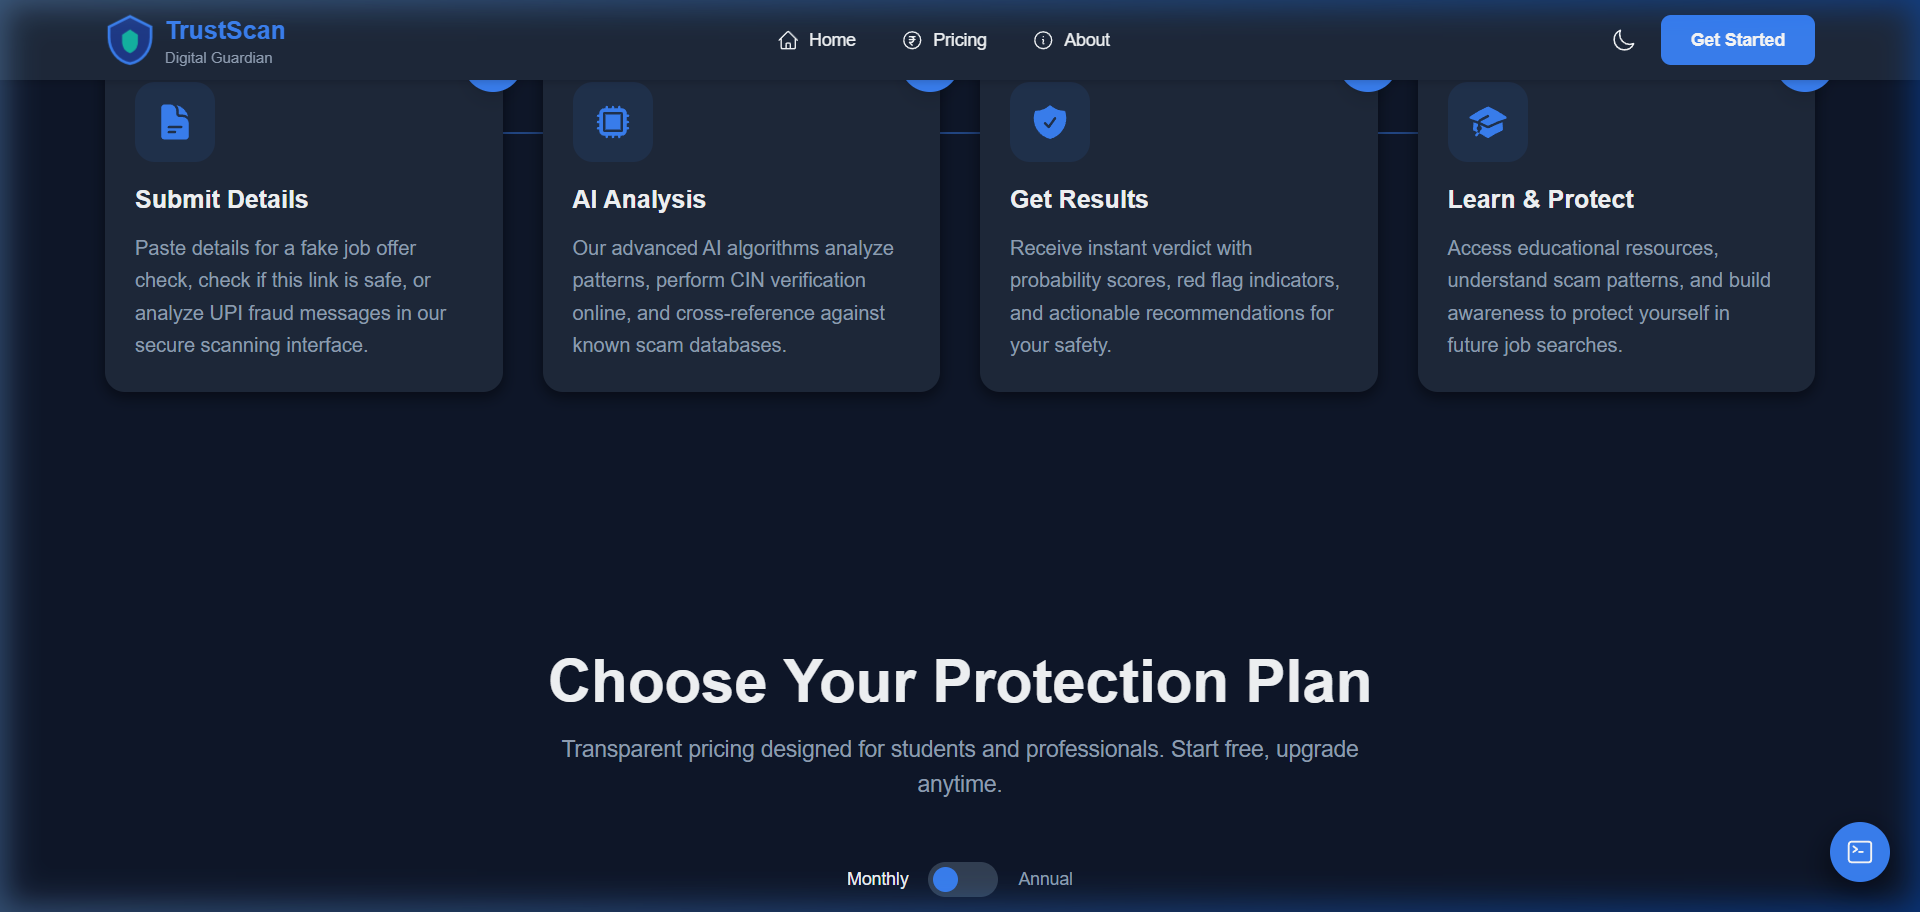
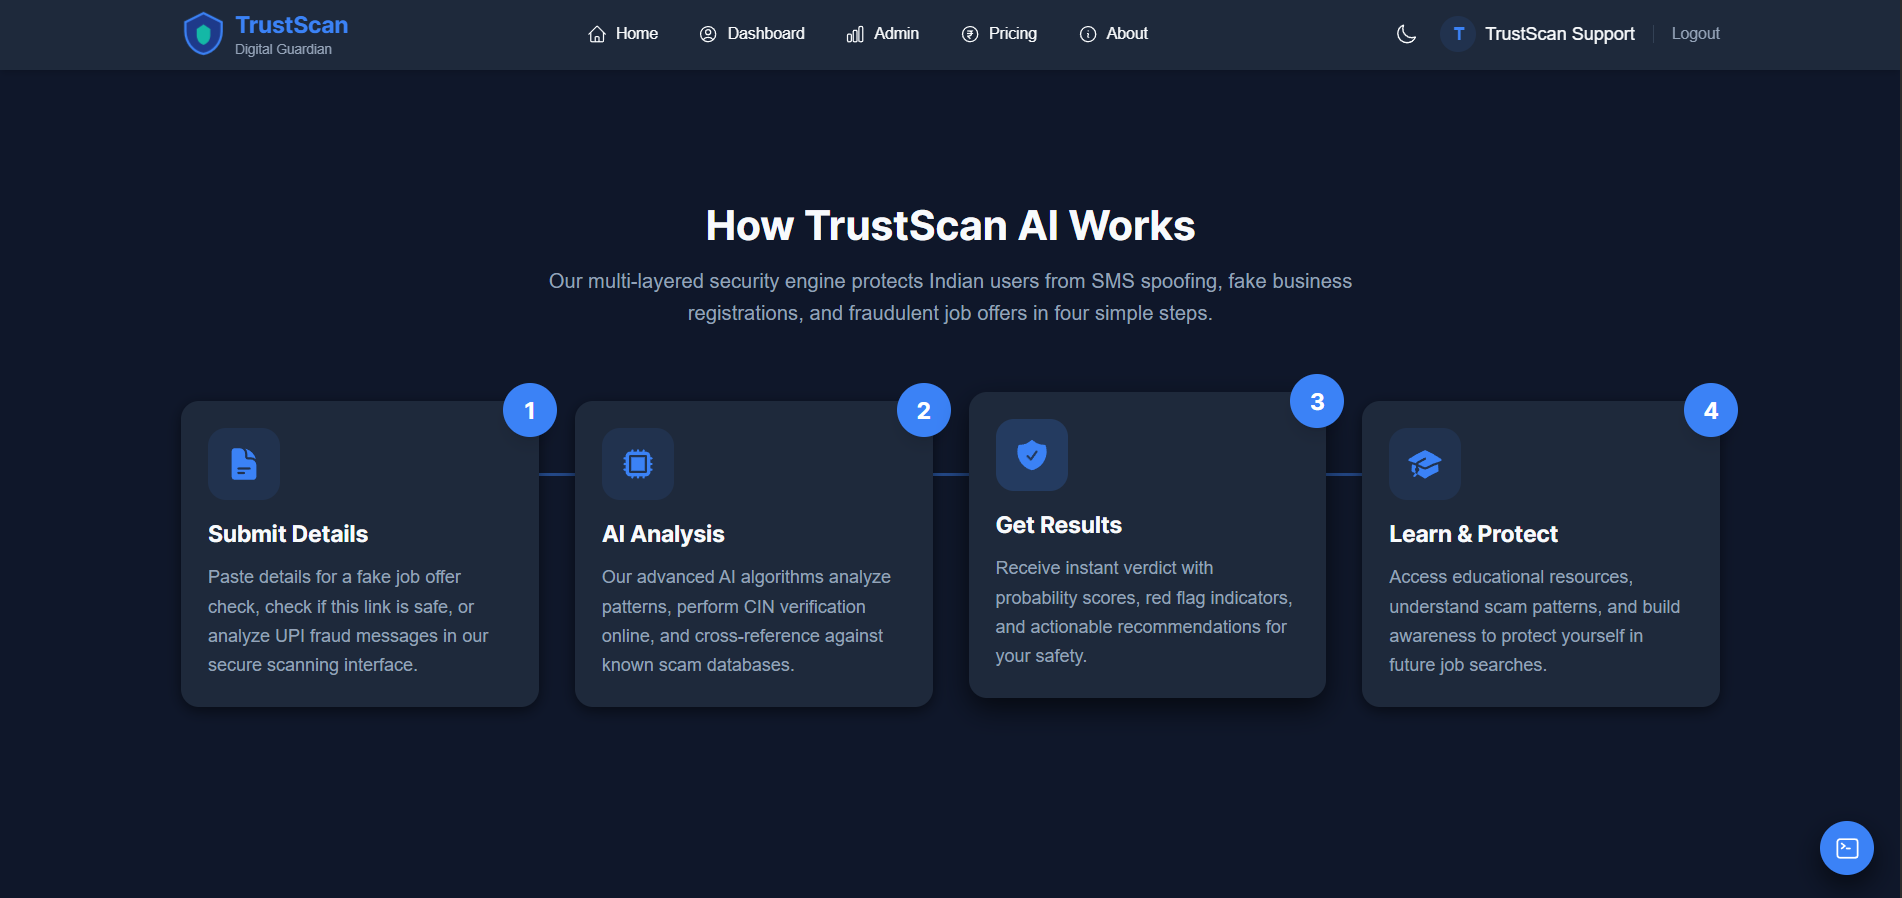
docs: Add real-time scan result dashboard screenshot to README visual showcase

diff --git a/README.md b/README.md
@@ -35,8 +35,12 @@
 ### 2. Multi-Format Fraud & Document Scanner Interface
 ![TrustScan Scanner Interface](docs/images/scanner_interface.png)
 
-### 3. Asynchronous Pipeline & Feature Architecture
+### 3. Real-Time Scan Results & AI Risk Analysis Dashboard
+![TrustScan Scan Result Dashboard](docs/images/Result.png)
+
+### 4. Asynchronous Pipeline & Feature Architecture
 ![TrustScan Architecture & Workflow](docs/images/architecture_workflow.png)
+
 
 ---
 
